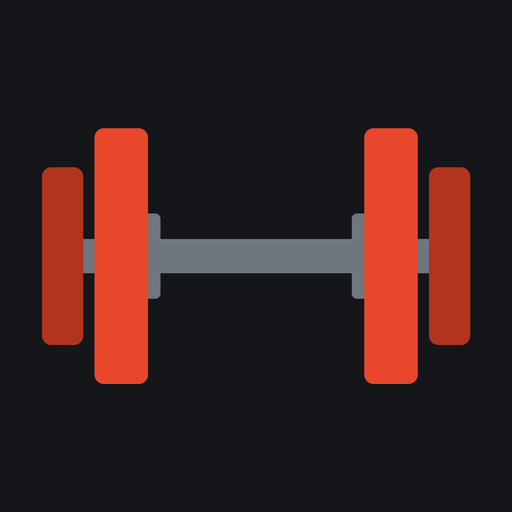
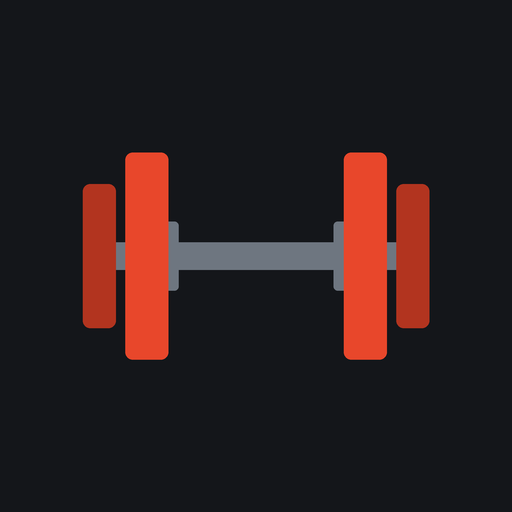
Add files via upload

Changed region(s): [[0.0625, 0.25, 0.9375, 0.75]]

diff --git a/app.js b/app.js
@@ -649,6 +649,72 @@ function fingerprint(w) {
 }
 
 // ─── Main App ─────────────────────────────────────────────────────────────────
+// The barbell from the app icon, drawn from the same geometry so the two always match.
+function AppMark({
+  width = 46
+}) {
+  return /*#__PURE__*/React.createElement("svg", {
+    viewBox: "0 0 1205.0 720.0",
+    width: width,
+    height: width * 0.5975,
+    role: "img",
+    "aria-label": "IronLog",
+    style: {
+      display: 'block',
+      flexShrink: 0
+    }
+  }, /*#__PURE__*/React.createElement("rect", {
+    x: "12.5",
+    y: "312.0",
+    width: "1180.0",
+    height: "96.0",
+    rx: "48.0",
+    fill: "#6E7680"
+  }), /*#__PURE__*/React.createElement("rect", {
+    x: "272.5",
+    y: "240.0",
+    width: "60.0",
+    height: "240.0",
+    rx: "14.0",
+    fill: "#6E7680"
+  }), /*#__PURE__*/React.createElement("rect", {
+    x: "872.5",
+    y: "240.0",
+    width: "60.0",
+    height: "240.0",
+    rx: "14.0",
+    fill: "#6E7680"
+  }), /*#__PURE__*/React.createElement("rect", {
+    x: "147.5",
+    y: "0.0",
+    width: "150.0",
+    height: "720.0",
+    rx: "26.0",
+    fill: "#E8472B"
+  }), /*#__PURE__*/React.createElement("rect", {
+    x: "907.5",
+    y: "0.0",
+    width: "150.0",
+    height: "720.0",
+    rx: "26.0",
+    fill: "#E8472B"
+  }), /*#__PURE__*/React.createElement("rect", {
+    x: "0.0",
+    y: "110.0",
+    width: "115.0",
+    height: "500.0",
+    rx: "26.0",
+    fill: "#B2341F"
+  }), /*#__PURE__*/React.createElement("rect", {
+    x: "1090.0",
+    y: "110.0",
+    width: "115.0",
+    height: "500.0",
+    rx: "26.0",
+    fill: "#B2341F"
+  }));
+}
+
 // ─── PWA helpers ──────────────────────────────────────────────────────────────
 const isStandalone = () => window.matchMedia && window.matchMedia('(display-mode: standalone)').matches || window.navigator.standalone === true;
 const isIOS = () => /iphone|ipad|ipod/i.test(navigator.userAgent) || navigator.platform === 'MacIntel' && navigator.maxTouchPoints > 1;
@@ -1284,15 +1350,9 @@ function IronLog() {
     style: S.header
   }, /*#__PURE__*/React.createElement("div", {
     style: S.headerLeft
-  }, /*#__PURE__*/React.createElement("div", {
-    style: S.barIcon
-  }, /*#__PURE__*/React.createElement("div", {
-    style: S.plate
-  }), /*#__PURE__*/React.createElement("div", {
-    style: S.bar
-  }), /*#__PURE__*/React.createElement("div", {
-    style: S.plate
-  })), /*#__PURE__*/React.createElement("div", null, /*#__PURE__*/React.createElement("h1", {
+  }, /*#__PURE__*/React.createElement(AppMark, {
+    width: 46
+  }), /*#__PURE__*/React.createElement("div", null, /*#__PURE__*/React.createElement("h1", {
     style: S.title
   }, "IRONLOG"), /*#__PURE__*/React.createElement("p", {
     style: S.subtitle
@@ -3751,7 +3811,7 @@ const S = {
   headerLeft: {
     display: 'flex',
     alignItems: 'center',
-    gap: 12
+    gap: 13
   },
   barIcon: {
     display: 'flex',

diff --git a/index.html b/index.html
@@ -9,7 +9,7 @@
   <meta name="color-scheme" content="dark" />
   <link rel="manifest" href="manifest.webmanifest" />
   <link rel="icon" type="image/png" href="favicon-64.png" />
-  <link rel="apple-touch-icon" href="apple-touch-icon.png" />
+  <link rel="apple-touch-icon" href="apple-touch-icon-v2.png" />
   <meta name="apple-mobile-web-app-capable" content="yes" />
   <meta name="mobile-web-app-capable" content="yes" />
   <meta name="apple-mobile-web-app-title" content="IronLog" />

diff --git a/sw.js b/sw.js
@@ -1,10 +1,10 @@
 // IronLog service worker — generated by build-pwa.cjs, do not edit by hand.
-const VERSION = '51c9d5cb52';
+const VERSION = '53e27b8c4e';
 const CACHE = 'ironlog-' + VERSION;
 const ASSETS = [
   "./",
   "app.js",
-  "apple-touch-icon.png",
+  "apple-touch-icon-v2.png",
   "bebas-neue-latin-400-normal.woff2",
   "favicon-64.png",
   "fonts.css",
